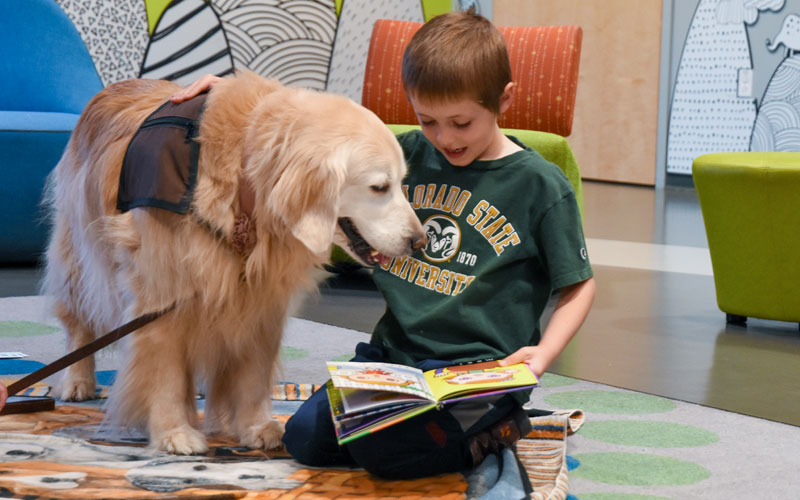
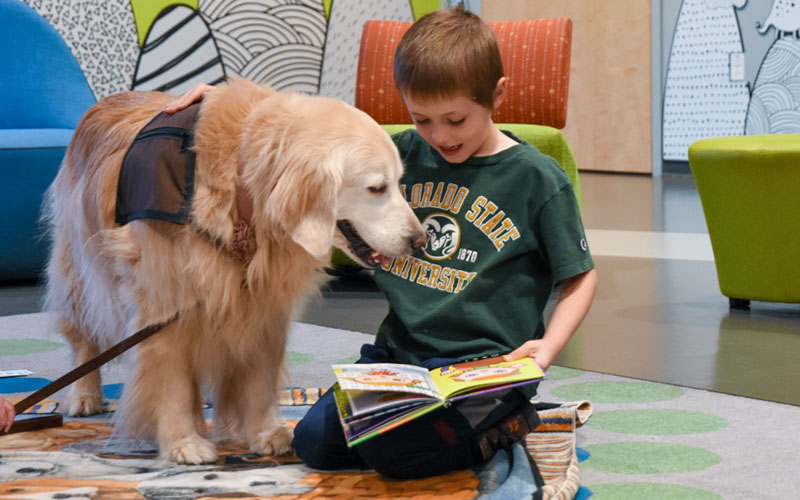
more buddies photos and formatting

diff --git a/parents/index.html b/parents/index.html
@@ -1,5 +1,6 @@
 <!DOCTYPE html>
-<html lang="en"><!-- InstanceBegin template="/Templates/page.dwt" codeOutsideHTMLIsLocked="false" -->
+<html lang="en">
+<!-- InstanceBegin template="/Templates/page.dwt" codeOutsideHTMLIsLocked="false" -->
 <head>
 <meta charset="utf-8">
 <meta http-equiv="X-UA-Compatible" content="IE=edge">
@@ -344,7 +345,7 @@ height="0" width="0" style="display:none;visibility:hidden"></iframe>
 <div class="container-fluid">
   <div id="general-alert" style="display:none;"></div>
   <!-- InstanceBeginEditable name="Content" -->
-  <div class="row border-top padding-bottom-30">
+  <div class="row border-top">
     <div class="container">
       <div class="text-center">
         <h1 class="jumbo-text text-uppercase font-weight-400 fade-in-text">Parents</h1>
@@ -356,7 +357,7 @@ height="0" width="0" style="display:none;visibility:hidden"></iframe>
       </div>
     </div>
   </div>
-  <div class="row bg-gray-5 padding-top-20 padding-bottom-30">
+  <div class="row padding-bottom-30">
     <div class="custom-container">
       <div class="item-wrapper">
         <div id="bark-for-books" class="box-item">
@@ -418,7 +419,7 @@ height="0" width="0" style="display:none;visibility:hidden"></iframe>
 	var images = ['bark-one.jpg', 'bark-two.jpg', 'bark-three.jpg', 'bark-four.jpg', 'bark-five.jpg', 'bark-six.jpg', 'bark-seven.jpg', 'bark-eight.jpg', 'bark-nine.jpg', 'bark-ten.jpg', 'bark-eleven.jpg', 'bark-twelve.jpg'];
     $('<img alt="Bark for Books" class="img-responsive center-block" src="images/' + images[Math.floor(Math.random() * images.length)] + '">').appendTo('#box-two');
 	
-	var images = ['buddies-one.jpg', 'buddies-two.jpg', 'buddies-three.jpg', 'buddies-four.jpg', 'buddies-five.jpg'];
+	var images = ['buddies-one.jpg', 'buddies-two.jpg', 'buddies-three.jpg', 'buddies-four.jpg', 'buddies-five.jpg','buddies-six.jpg', 'buddies-seven.jpg', 'buddies-eight.jpg', 'buddies-nine.jpg', 'buddies-ten.jpg', 'buddies-eleven.jpg', 'buddies-twelve.jpg'];
     $('<img alt="Reading Buddies" class="img-responsive center-block" src="images/' + images[Math.floor(Math.random() * images.length)] + '">').appendTo('#box-three');
 	
 	var images = ['levels-one.jpg', 'levels-two.jpg', 'levels-three.jpg'];
@@ -551,4 +552,5 @@ height="0" width="0" style="display:none;visibility:hidden"></iframe>
 </script> 
 <!-- InstanceEndEditable -->
 </body>
-<!-- InstanceEnd --></html>
+<!-- InstanceEnd -->
+</html>
